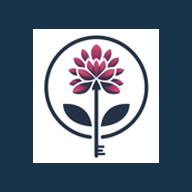
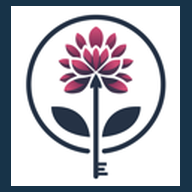
Polish pass: CTA buttons, missing-field styling, Check Received redesign
- My Earnings / My Spreadsheet: smaller, sage green (#8A9A6F), side by
  side in one row instead of one full-width green button.
- "— add —" placeholder text (both spreadsheets) now a subtle red tone
  instead of plain grey, so a missing field actually reads as missing.
- Fixed the frozen/scrolling divider disappearing: switched the table
  from border-collapse to border-separate + 0 spacing — collapse is
  known to make box-shadow and position:sticky render unreliably on
  table cells in some browsers.
- Check Received is no longer an editable dropdown — it's a computed
  status ("No" / "Yes" / "Terminated") driven entirely by the Close
  Out/Terminate actions, which now sit in their own narrow column
  immediately next to it (both still frozen, alongside Closing Date
  and Address). Closing Date and the new combined Check
  Received+Actions footprint are narrower than before to free up room.
- Close Out and Terminate actions are hidden once a deal is actually
  closed out (nothing left to do there) — only Reactivate shows for a
  terminated deal.
- Added Agent Split % to the agent-facing spreadsheet.
- Regenerated the PWA icons with the logo filling ~94% of the canvas
  (was ~70%, reading as a small logo in a big blank square) and
  dropped the maskable icon variant, which is specced to keep content
  inside a safe zone and would otherwise crop the now-tighter logo.

diff --git a/src/components/SpreadsheetView.jsx b/src/components/SpreadsheetView.jsx
@@ -60,7 +60,6 @@ const COLUMNS = [
   // tooltip below) but edited with a native date picker and displayed
   // formatted, same as inspection/financing dates further down.
   { key: "next_date", label: "Closing Date", source: "tx", type: "date", format: formatDateShort },
-  { key: "check_received", label: "Check Received", source: "closeout", type: "select", options: YES_NO_OPTIONS },
   { key: "address", label: "Address", source: "tx", type: "text" },
   // The two most-glanced-at commission figures lead the scrolling section
   // (right after Agent) rather than sitting buried at the far right.
@@ -93,9 +92,28 @@ const COLUMNS = [
   { key: "fran_commission", label: "Fran Commission", source: "closeout", readOnly: true },
 ];
 
-const FROZEN_COLUMN_COUNT = 3; // Closing Date, Check Received, Address
-const FROZEN_COLUMN_WIDTHS = [110, 120, 190]; // px, same order — drives both column width and sticky left-offset below
-const FROZEN_COLUMN_LEFTS = FROZEN_COLUMN_WIDTHS.map((_, i) => FROZEN_COLUMN_WIDTHS.slice(0, i).reduce((a, b) => a + b, 0));
+// Closing Date and Address come straight from COLUMNS; Check Received (now a
+// computed status, not an editable field — see checkReceivedLabel) and the
+// Close Out/Terminate actions are hardcoded cells slotted in between them,
+// not generic COLUMNS entries, so they're tracked separately here rather
+// than through FROZEN_COLUMN_COUNT/widths alone.
+const FROZEN_COLUMN_COUNT = 2; // Closing Date, Address
+const FROZEN_WIDTHS = { nextDate: 86, checkReceived: 74, actions: 54, address: 170 };
+const FROZEN_LEFTS = {
+  nextDate: 0,
+  checkReceived: FROZEN_WIDTHS.nextDate,
+  actions: FROZEN_WIDTHS.nextDate + FROZEN_WIDTHS.checkReceived,
+  address: FROZEN_WIDTHS.nextDate + FROZEN_WIDTHS.checkReceived + FROZEN_WIDTHS.actions,
+};
+
+/** "No" unless the deal has actually been closed out (a real commission
+ * figure on record) or terminated — driven entirely by the Close Out/
+ * Terminate actions right next to it, not a separate manual toggle. */
+function checkReceivedLabel(tx) {
+  if (tx.terminated_at) return "Terminated";
+  if (tx.closeouts?.commission_after_referral != null) return "Yes";
+  return "No";
+}
 
 function getValue(tx, col) {
   if (col.source === "tx") return tx[col.key];
@@ -179,7 +197,7 @@ function EditableCell({ value, displayValue, type, options, format, readOnly, on
   if (!editing) {
     return (
       <button type="button" className="sv-cell-btn" onClick={() => setEditing(true)}>
-        {display}
+        {display === "—" ? <span className="sv-cell-missing">— add —</span> : display}
       </button>
     );
   }
@@ -523,18 +541,31 @@ export default function SpreadsheetView({ transactions, onBack, onOpenDetail, on
         <table className="sv-table">
           <thead>
             <tr>
-              {COLUMNS.slice(0, FROZEN_COLUMN_COUNT).map((col, i) => (
-                <th
-                  key={col.key}
-                  className={`sv-th-sortable sv-col-frozen${i === FROZEN_COLUMN_COUNT - 1 ? " sv-col-frozen-last" : ""}`}
-                  style={{ left: FROZEN_COLUMN_LEFTS[i], width: FROZEN_COLUMN_WIDTHS[i], minWidth: FROZEN_COLUMN_WIDTHS[i] }}
-                  onClick={() => handleSort(col.key)}
-                  title={col.key === "next_date" ? "The deal's next key date — its closing date once Under Contract, used informally before that." : undefined}
-                >
-                  {col.label}
-                  {sortKey === col.key ? (sortDir === "asc" ? " ▲" : " ▼") : ""}
-                </th>
-              ))}
+              <th
+                className="sv-th-sortable sv-col-frozen"
+                style={{ left: FROZEN_LEFTS.nextDate, width: FROZEN_WIDTHS.nextDate, minWidth: FROZEN_WIDTHS.nextDate }}
+                onClick={() => handleSort("next_date")}
+                title="The deal's next key date — its closing date once Under Contract, used informally before that."
+              >
+                Closing Date{sortKey === "next_date" ? (sortDir === "asc" ? " ▲" : " ▼") : ""}
+              </th>
+              <th
+                className="sv-col-frozen"
+                style={{ left: FROZEN_LEFTS.checkReceived, width: FROZEN_WIDTHS.checkReceived, minWidth: FROZEN_WIDTHS.checkReceived }}
+              >
+                Check Received
+              </th>
+              <th
+                className="sv-col-frozen"
+                style={{ left: FROZEN_LEFTS.actions, width: FROZEN_WIDTHS.actions, minWidth: FROZEN_WIDTHS.actions }}
+              />
+              <th
+                className="sv-th-sortable sv-col-frozen sv-col-frozen-last"
+                style={{ left: FROZEN_LEFTS.address, width: FROZEN_WIDTHS.address, minWidth: FROZEN_WIDTHS.address }}
+                onClick={() => handleSort("address")}
+              >
+                Address{sortKey === "address" ? (sortDir === "asc" ? " ▲" : " ▼") : ""}
+              </th>
               <th className="sv-th-sortable" onClick={() => handleSort("agent")}>
                 Agent{sortKey === "agent" ? (sortDir === "asc" ? " ▲" : " ▼") : ""}
               </th>
@@ -562,22 +593,40 @@ export default function SpreadsheetView({ transactions, onBack, onOpenDetail, on
                 className={selectedRowId === tx.id ? "sv-row-selected" : ""}
                 onClick={() => setSelectedRowId(tx.id)}
               >
-                {COLUMNS.slice(0, FROZEN_COLUMN_COUNT).map((col, i) => (
-                  <td
-                    key={col.key}
-                    className={`sv-col-frozen${i === FROZEN_COLUMN_COUNT - 1 ? " sv-col-frozen-last" : ""}`}
-                    style={{ left: FROZEN_COLUMN_LEFTS[i] }}
-                  >
-                    <EditableCell
-                      value={getValue(tx, col)}
-                      type={col.type}
-                      options={col.options}
-                      format={col.format}
-                      readOnly={col.readOnly}
-                      onSave={(v) => handleSaveCell(tx, col, v)}
-                    />
-                  </td>
-                ))}
+                <td className="sv-col-frozen" style={{ left: FROZEN_LEFTS.nextDate }}>
+                  <EditableCell
+                    value={tx.next_date}
+                    type="date"
+                    format={formatDateShort}
+                    onSave={(v) => handleSaveTx(tx, "next_date", v)}
+                  />
+                </td>
+                <td className="sv-col-frozen" style={{ left: FROZEN_LEFTS.checkReceived }}>
+                  <span className={`sv-cell-readonly${tx.terminated_at ? " sv-check-received--terminated" : checkReceivedLabel(tx) === "Yes" ? " sv-check-received--yes" : ""}`}>
+                    {checkReceivedLabel(tx)}
+                  </span>
+                </td>
+                <td className="sv-col-frozen" style={{ left: FROZEN_LEFTS.actions }}>
+                  <div className="sv-row-quick-actions" onClick={(e) => e.stopPropagation()}>
+                    {tx.terminated_at ? (
+                      <button type="button" title="Reactivate deal" onClick={() => handleReactivate(tx)}>
+                        <RotateCcw size={12} />
+                      </button>
+                    ) : checkReceivedLabel(tx) === "Yes" ? null : (
+                      <>
+                        <button type="button" title="Close-Out Calculator" onClick={() => setClosingOutTx(tx)}>
+                          <DollarSign size={12} />
+                        </button>
+                        <button type="button" title="Terminate deal" onClick={() => setTerminatingTx(tx)}>
+                          <Ban size={12} />
+                        </button>
+                      </>
+                    )}
+                  </div>
+                </td>
+                <td className="sv-col-frozen sv-col-frozen-last" style={{ left: FROZEN_LEFTS.address }}>
+                  <EditableCell value={tx.address} onSave={(v) => handleSaveTx(tx, "address", v)} />
+                </td>
                 <td>
                   <EditableCell
                     value={tx.agent_id}

diff --git a/src/index.css b/src/index.css
@@ -138,17 +138,16 @@ button { cursor: pointer; }
 .center-screen { display: flex; align-items: center; justify-content: center; min-height: 100vh; padding: 20px; text-align: center; }
 .error-banner { background: var(--color-danger-bg); color: var(--color-danger-text); padding: 10px 14px; border-radius: 10px; margin-bottom: 14px; font-size: 13px; }
 .view-as-banner { background: var(--color-bg-slate); color: var(--color-navy); padding: 8px 14px; border-radius: 10px; margin-bottom: 14px; font-size: 12px; font-weight: 600; text-align: center; }
+.cta-button-row { display: flex; gap: 8px; margin-bottom: 14px; }
 .my-earnings-cta {
-  display: block;
-  width: 100%;
-  background: var(--color-success-text);
+  flex: 1;
+  background: #8A9A6F;
   color: var(--color-white);
   border: none;
-  border-radius: 12px;
-  padding: 13px;
-  margin-bottom: 14px;
+  border-radius: 10px;
+  padding: 9px;
   font-family: 'Montserrat', sans-serif;
-  font-size: 15px;
+  font-size: 13px;
   font-weight: 700;
 }
 .my-earnings-cta:hover { opacity: 0.92; }
@@ -900,7 +899,11 @@ button { cursor: pointer; }
 }
 .sv-filters select { padding: 8px 10px; border-radius: 8px; border: 1px solid var(--color-border-input); font-family: 'Montserrat', sans-serif; font-size: 13px; }
 .sv-table-wrap { overflow: auto; border: 1px solid var(--color-border); border-radius: 12px; max-height: 75vh; }
-.sv-table { border-collapse: collapse; font-size: 12px; white-space: nowrap; }
+/* border-separate + 0 spacing, not collapse — looks identical for a simple
+   bordered grid, but border-collapse is known to make box-shadow (the frozen/
+   scrolling divider) and position: sticky render unreliably on table cells in
+   some browsers; separate avoids that entirely. */
+.sv-table { border-collapse: separate; border-spacing: 0; font-size: 12px; white-space: nowrap; }
 .sv-table th,
 .sv-table td { padding: 6px 10px; border-bottom: 1px solid var(--color-border); text-align: left; }
 .sv-table thead th {
@@ -929,6 +932,9 @@ button { cursor: pointer; }
 .sv-cell-input { width: 100%; min-width: 90px; padding: 2px 4px; border-radius: 4px; border: 1px solid var(--color-accent-blue); font-family: 'Montserrat', sans-serif; font-size: 12px; }
 .sv-cell-readonly { padding: 2px 4px; color: var(--color-text-muted); }
 .sv-cell-projected { padding: 2px 4px; color: var(--color-text-muted); font-style: italic; cursor: help; }
+.sv-cell-missing { color: var(--color-danger-text); opacity: 0.75; font-style: italic; }
+.sv-check-received--yes { color: var(--color-success-text); font-weight: 700; }
+.sv-check-received--terminated { color: var(--color-danger-text); font-weight: 700; }
 .sv-row-actions { position: sticky; right: 0; background: var(--color-cream-bg); }
 .sv-table tbody tr { cursor: pointer; }
 

diff --git a/src/App.jsx b/src/App.jsx
@@ -34,7 +34,7 @@ import TutorialGuide from "./components/TutorialGuide";
 import MyEarnings from "./components/MyEarnings";
 import AgentSpreadsheetView from "./components/AgentSpreadsheetView";
 import { SkeletonList } from "./components/Skeleton";
-import { LogOut, HelpCircle, Table } from "lucide-react";
+import { LogOut, HelpCircle } from "lucide-react";
 
 const STAGES = [
   { key: "comps", label: "Comp" },
@@ -464,9 +464,6 @@ export default function App() {
           <img src="/hall-collins-logo-full.png" alt="Hall Collins Real Estate Group" className="brand-logo" />
           <div className="main-header-right">
             <h1>Deal Flow</h1>
-            <button onClick={() => setShowMySpreadsheet(true)} aria-label="My Spreadsheet" title="My Spreadsheet">
-              <Table size={18} />
-            </button>
             <button onClick={() => setShowTutorial(true)} aria-label="How It Works" title="How It Works">
               <HelpCircle size={18} />
             </button>
@@ -507,9 +504,14 @@ export default function App() {
 
       {error && <div className="error-banner">{error}</div>}
 
-      <button type="button" className="my-earnings-cta" onClick={() => setShowMyEarnings(true)}>
-        My Earnings
-      </button>
+      <div className="cta-button-row">
+        <button type="button" className="my-earnings-cta" onClick={() => setShowMyEarnings(true)}>
+          My Earnings
+        </button>
+        <button type="button" className="my-earnings-cta" onClick={() => setShowMySpreadsheet(true)}>
+          My Spreadsheet
+        </button>
+      </div>
 
       {loadingTxs ? (
         <SkeletonList count={4} />

diff --git a/src/components/AgentSpreadsheetView.jsx b/src/components/AgentSpreadsheetView.jsx
@@ -37,7 +37,7 @@ function AgentCell({ value, type = "text", onSave }) {
   if (!editing) {
     return (
       <button type="button" className="sv-cell-btn" onClick={() => setEditing(true)}>
-        {value ? (type === "date" ? formatDateShort(value) : value) : <span className="field-help">— add —</span>}
+        {value ? (type === "date" ? formatDateShort(value) : value) : <span className="sv-cell-missing">— add —</span>}
       </button>
     );
   }
@@ -193,6 +193,7 @@ export default function AgentSpreadsheetView({ transactions, currentAgent, onBac
                   <th>Appraiser</th>
                   <th>Inspection Date</th>
                   <th>Financing Date</th>
+                  <th>Agent Split %</th>
                   <th>My Commission</th>
                   <th />
                 </tr>
@@ -229,6 +230,7 @@ export default function AgentSpreadsheetView({ transactions, currentAgent, onBac
                           onSave={(v) => tx && handleSaveCommissionField(tx, "financing_date", v)}
                         />
                       </td>
+                      <td>{d.agent_split_pct != null ? `${d.agent_split_pct}%` : <span className="field-help">—</span>}</td>
                       <td>
                         {d.amount == null ? (
                           <span className="field-help">Not enough on record yet</span>

diff --git a/vite.config.js b/vite.config.js
@@ -23,10 +23,14 @@ export default defineConfig({
         background_color: "#F7F5F0",
         display: "standalone",
         start_url: "/",
+        // "any" only, deliberately — a maskable icon is expected to keep its
+        // content inside a ~80% safe zone since the OS crops it into various
+        // mask shapes, which would clip our logo now that it fills ~94% of
+        // the canvas. "any" is rendered as-is, no cropping risk, and is the
+        // one that actually matters for a desktop install.
         icons: [
           { src: "icon-192.png", sizes: "192x192", type: "image/png" },
           { src: "icon-512.png", sizes: "512x512", type: "image/png" },
-          { src: "icon-512.png", sizes: "512x512", type: "image/png", purpose: "maskable" },
         ],
       },
     }),
